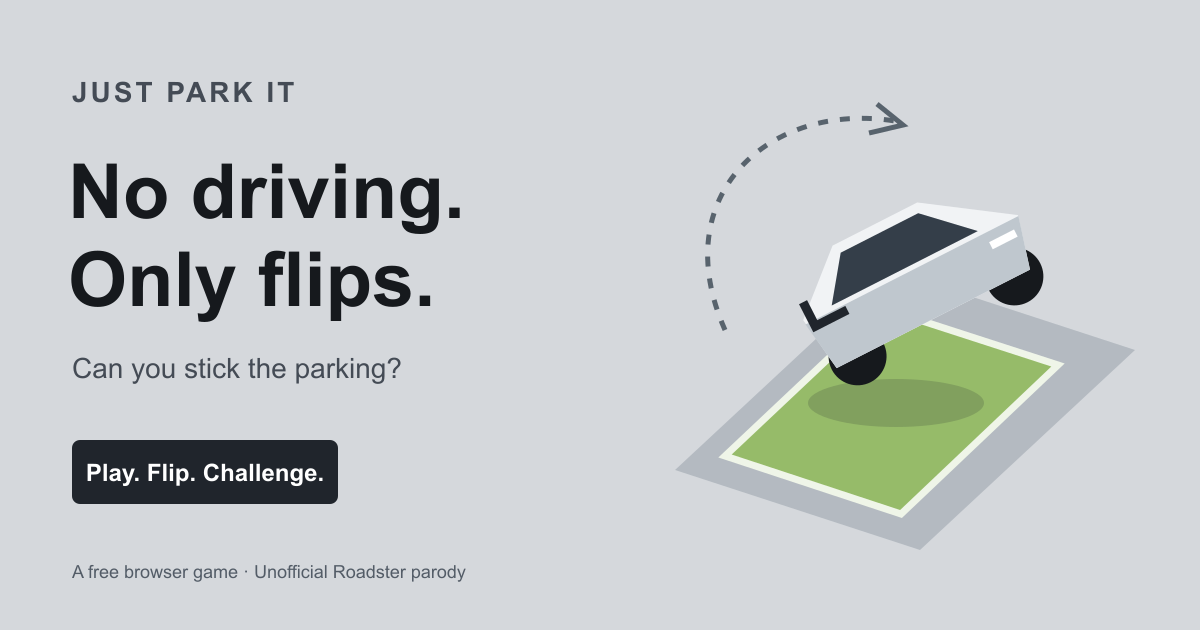
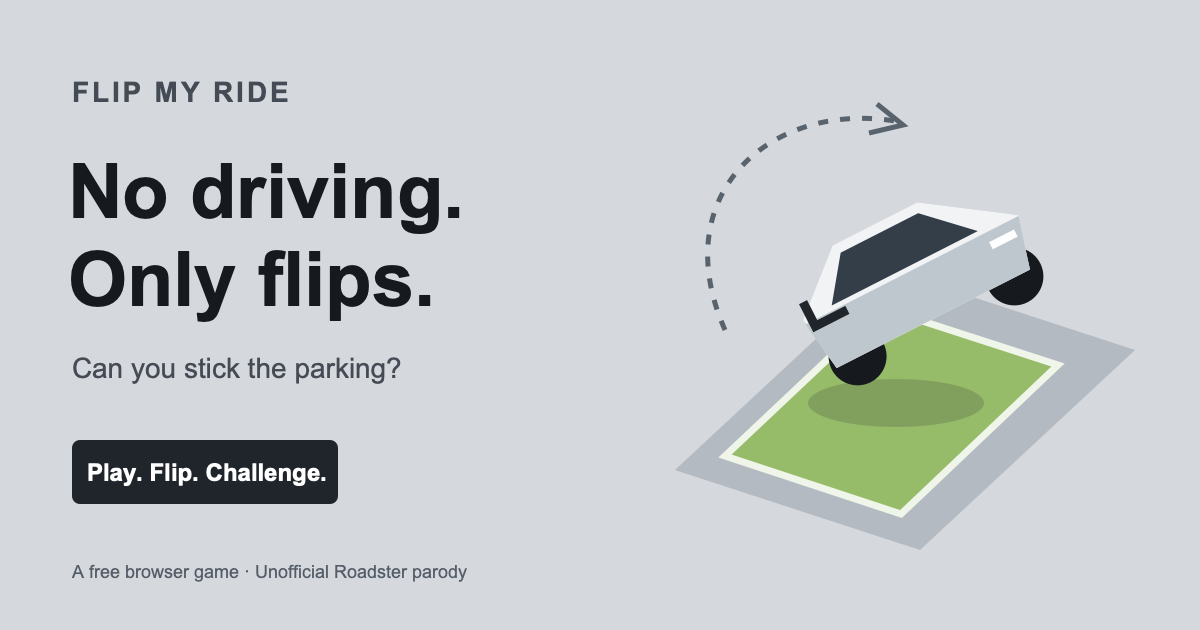
Prepare Flip My Ride for custom-domain deployment

diff --git a/tests/input.test.ts b/tests/input.test.ts
@@ -1,0 +1,48 @@
+import fs from "node:fs";
+import vm from "node:vm";
+import assert from "node:assert/strict";
+import { test } from "node:test";
+import ts from "typescript";
+import * as THREE from "three";
+
+// Run the real input handlers without creating a WebGL renderer.
+const source = fs.readFileSync(new URL("../src/main.ts", import.meta.url), "utf8");
+
+test("short drags do not promise a flip that release cannot launch", () => {
+  const handlers = {};
+  const context = vm.createContext({ THREE, handlers });
+  const fixture = `
+  const position = new THREE.Vector3();
+  const landing = position.clone();
+  const aim = {visible: false, position: new THREE.Vector3()};
+  const aimLine = {visible: false, geometry: new THREE.BufferGeometry()};
+  const powerFill = {style: {width: '0'}};
+  const message = {textContent: ''};
+  const bounds = {x: 8.5, z: 7};
+  const ring = {material: {color: new THREE.Color()}};
+  let won = false, flight = null, flips = 0, touchdown = 1;
+  const flipsLabel = {}, reducedMotion = {matches: false};
+  const shockwave = {material: {}}, pivot = {scale: new THREE.Vector3()}, stunt = {};
+  function burst() {}
+  let pointer = null, chargeStart = null;
+  const dragStart = new THREE.Vector2();
+  const stage = {addEventListener(name, fn) {handlers[name] = fn}, setPointerCapture() {}, releasePointerCapture() {}, focus() {}};
+  const window = {addEventListener() {}};
+  function worldAt(x, y) {return new THREE.Vector3(x, 0, y)}
+  `;
+  const functions = source.slice(source.indexOf('function showAim('), source.indexOf('function reset()'));
+  const events = source.slice(source.indexOf('stage.addEventListener("pointerdown"'), source.indexOf('window.addEventListener("keydown"'));
+  vm.runInContext(ts.transpile(fixture + functions + events), context);
+  const event = {pointerId: 1, pointerType: 'mouse', button: 0, clientX: 0, clientY: 0, target: {closest() {return null}}};
+  handlers.pointerdown(event);
+  handlers.pointermove({...event, clientX: 0.1});
+  const preview = vm.runInContext('({visible: aim.visible, message: message.textContent})', context);
+  handlers.pointerup({...event, clientX: 0.1});
+  const released = vm.runInContext('({flight: !!flight, message: message.textContent})', context);
+  assert.ok(!preview.visible || released.flight, 'Visible landing preview must launch on release');
+  assert.doesNotMatch(released.message, /Release to commit/, 'Release must not leave an instruction to release');
+  handlers.pointerdown(event);
+  handlers.pointermove({...event, clientX: 1});
+  handlers.pointerup({...event, clientX: 1});
+  assert.equal(vm.runInContext('!!flight', context), true, 'Normal drag must launch');
+});

diff --git a/index.html b/index.html
@@ -19,14 +19,14 @@
       href="./apple-touch-icon.png"
     />
     <link rel="manifest" href="./site.webmanifest" />
-    <meta name="application-name" content="Just Park It" />
-    <meta name="apple-mobile-web-app-title" content="Just Park It" />
-    <meta property="og:site_name" content="Just Park It" />
+    <meta name="application-name" content="Flip My Ride" />
+    <meta name="apple-mobile-web-app-title" content="Flip My Ride" />
+    <meta property="og:site_name" content="Flip My Ride" />
     <meta property="og:type" content="website" />
     <meta property="og:locale" content="en_US" />
     <meta
       property="og:title"
-      content="Just Park It — No driving. Only flips."
+      content="Flip My Ride — No driving. Only flips."
     />
     <meta
       property="og:description"
@@ -37,12 +37,12 @@
     <meta property="og:image:height" content="630" />
     <meta
       property="og:image:alt"
-      content="Just Park It: No driving. Only flips. A silver car flips above a green parking bay."
+      content="Flip My Ride: No driving. Only flips. A silver car flips above a green parking bay."
     />
     <meta name="twitter:card" content="summary_large_image" />
     <meta
       name="twitter:title"
-      content="Just Park It — No driving. Only flips."
+      content="Flip My Ride — No driving. Only flips."
     />
     <meta
       name="twitter:description"
@@ -50,14 +50,14 @@
     />
     <meta
       name="twitter:image:alt"
-      content="Just Park It: No driving. Only flips. A silver car flips above a green parking bay."
+      content="Flip My Ride: No driving. Only flips. A silver car flips above a green parking bay."
     />
     <link rel="stylesheet" href="/src/style.css" />
-    <title>Just Park It — No driving. Only flips.</title>
+    <title>Flip My Ride</title>
   </head>
   <body>
     <noscript
-      >Just Park It is a free parking game where your car only moves by
+      >Flip My Ride is a free parking game where your car only moves by
       flipping. Enable JavaScript to play and challenge a friend.</noscript
     >
     <main id="app">
@@ -160,7 +160,7 @@
         </div>
       </div>
       <header>
-        <h1>Just Park It</h1>
+        <h1>Flip My Ride</h1>
         <div class="score"><span id="flips">0</span> flips</div>
         <nav class="social-options" aria-label="Share game">
           <a

diff --git a/src/sharing.ts b/src/sharing.ts
@@ -5,7 +5,7 @@ export function shareContent(currentUrl: string, score?: Score) {
   url.search = "";
   url.hash = "";
   return {
-    title: "Just Park It",
+    title: "Flip My Ride",
     text: score
       ? `It took me ${score.flips} ${score.flips === 1 ? "flip" : "flips"} and ${score.hits} insurance ${score.hits === 1 ? "claim" : "claims"} to park a car. Beat that.`
       : "Someone made a parking game where the Roadster only does flips. Good luck.",

diff --git a/src/main.ts b/src/main.ts
@@ -314,6 +314,11 @@ function worldAt(x: number, y: number) {
 function showAim(delta: THREE.Vector3) {
   delta.clampLength(0, 9);
   landing.copy(position).add(delta);
+  if (position.distanceTo(landing) < 0.3) {
+    clearAim();
+    message.textContent = "Drag farther to flip.";
+    return;
+  }
   aim.position.copy(landing);
   aim.visible = true;
   aimLine.geometry.dispose();

diff --git a/README.md b/README.md
@@ -1,4 +1,4 @@
-# Just Park It
+# Flip My Ride
 
 A small browser game inspired by the Roadster stunt presentation. The car only moves by flipping. Land completely inside the green parking bay to win.
 
@@ -34,7 +34,7 @@ Connect the repository. Use build command `npm run build`, output directory `dis
 
 ### Link previews and icons
 
-Set the build environment variable `SITE_URL` to the public game URL, including any project path (for example, `https://your-domain.com/just-park-it/`). GitHub Pages supplies this automatically through the deployment workflow. On Cloudflare Pages, set it in the project's build environment variables to the production URL.
+The public URL is https://flip.amureki.me/. `.env.production` sets `SITE_URL` for production builds. `public/CNAME` declares the GitHub Pages custom domain; configure the matching domain in the hosting settings and point its DNS record at the host. Override `SITE_URL` only when deploying to a different URL.
 
 The build puts canonical and absolute Open Graph/X image URLs in the HTML and generates `sitemap.xml`. Without `SITE_URL`, local builds still work, but print a warning and omit these URL-dependent fields. Metadata does not depend on JavaScript execution.
 

diff --git a/DESIGN.md b/DESIGN.md
@@ -1,5 +1,5 @@
 ---
-name: Just Park It
+name: Flip My Ride
 description: Full-screen parking game with minimal controls.
 colors:
   background: "#d5d8dc"
